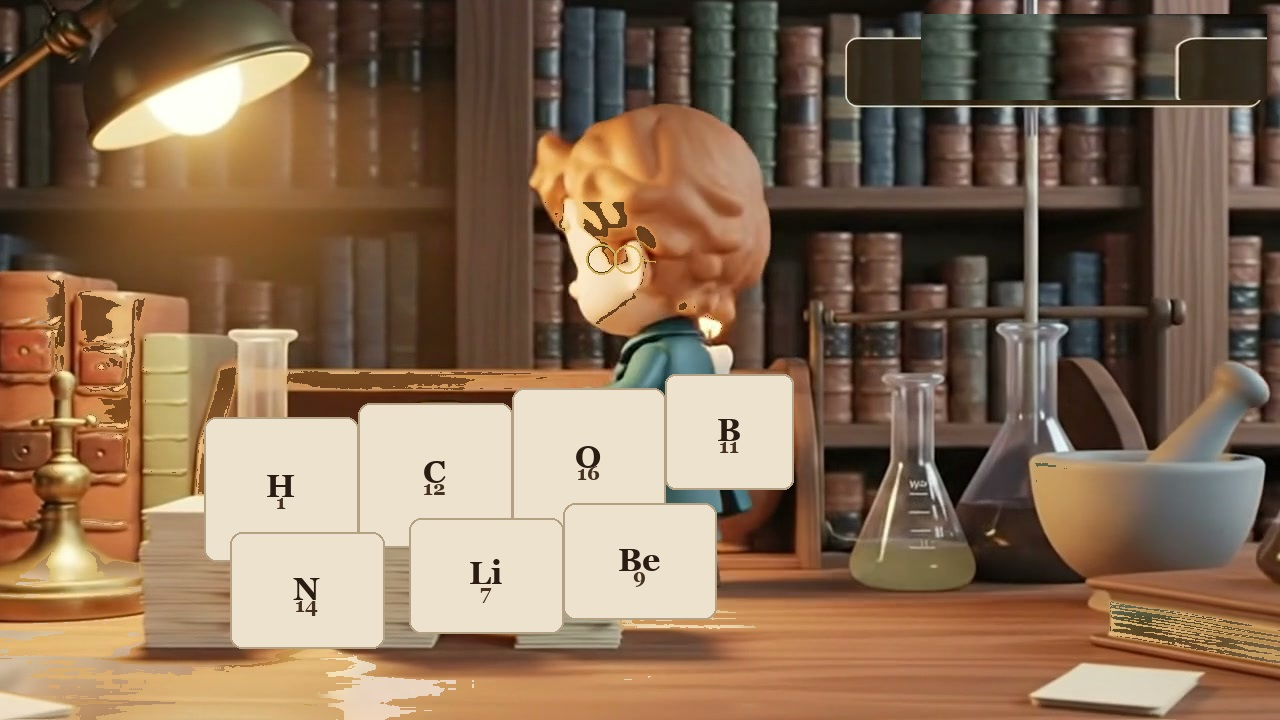
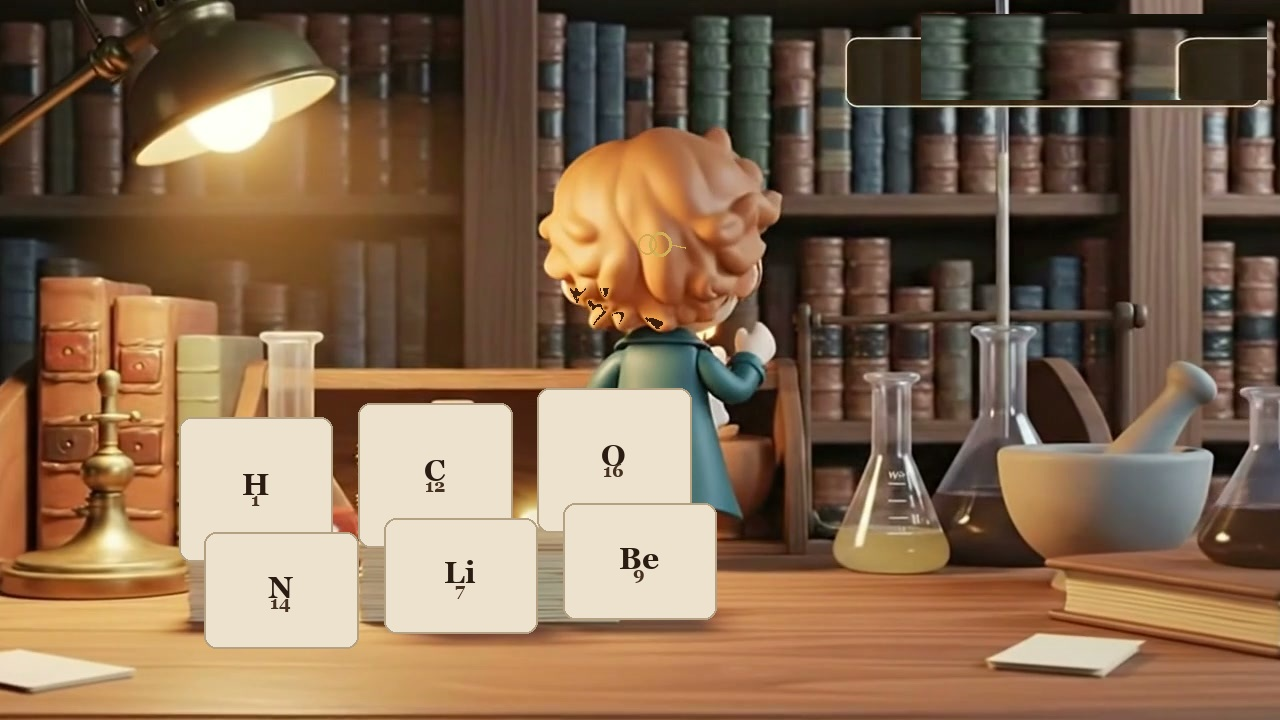
HOS 002 Part 04 v11: tighten Explorer start + face-on auto-reject gate.
Rebuild 06 start from v10 back scale with written cards; auto-reject only when
tall garnish AND face-on (back silhouette alone is not enough).

diff --git a/02_Video-Projects/002_How-Did-We-Discover-The-Periodic-Table/07_Edit-Project/_mint_part04_flow_v11.py b/02_Video-Projects/002_How-Did-We-Discover-The-Periodic-Table/07_Edit-Project/_mint_part04_flow_v11.py
@@ -664,7 +664,7 @@ def explorer_face_hero_suspect(still: Path) -> dict:
     bh = max(ys) - min(ys)
     h_frac = bh / float(h)
     w_frac = bw / float(w)
-    face_hero = h_frac >= 0.42 or (h_frac >= 0.34 and w_frac >= 0.28 and len(xs) > 1800)
+    face_hero = h_frac >= 0.55 or (h_frac >= 0.45 and w_frac >= 0.32 and len(xs) > 2200)
     return {
         "still": str(still),
         "teal_px": len(xs),
@@ -913,14 +913,16 @@ def still_check_garnish(clip: Path, tag: str) -> dict:
         "face_hero_count": len(heroes),
         "faceon_count": len(faceons),
         "face_hero": len(heroes) >= 2,
-        "faceon_pose": len(faceons) >= 2,  # advisory heuristic; agent still-QA is source of truth
+        "faceon_pose": len(faceons) >= 2,
+        # Auto-reject only when tall garnish AND face-on (back silhouette can be tall)
+        "auto_reject": (len(heroes) >= 2 and len(faceons) >= 2) or len(faceons) >= 4,
         "max_h_frac": max((s["h_frac"] for s in scores), default=0.0),
     }
     (QA_STILLS / f"{tag}_garnish_check.json").write_text(json.dumps(report, indent=2) + "\n")
     print(
         f"  garnish-check {tag}: face_hero_frames={len(heroes)}/9 "
         f"faceon_frames={len(faceons)}/9 max_h_frac={report['max_h_frac']} "
-        f"reject={report['face_hero'] or report['faceon_pose']}",
+        f"reject={report.get('auto_reject')}",
         flush=True,
     )
     return report
@@ -1111,7 +1113,7 @@ def main() -> None:
                         hcheck = still_check_hat_colour(dest, f"{pid}_existing")
                         if (
                             not check["roof_readable"]
-                            and not gcheck.get("face_hero")
+                            and not gcheck.get("auto_reject", gcheck.get("face_hero"))
                             and not hcheck.get("reject")
                         ):
                             print(
@@ -1279,16 +1281,15 @@ def main() -> None:
                     reject_reasons = []
                     if check["roof_readable"]:
                         reject_reasons.append("hardfill_or_roof")
-                    if gcheck.get("face_hero"):
-                        reject_reasons.append("face_hero")
-                    # faceon_pose is advisory here; agent visual QA across 1s stills is authoritative
+                    if gcheck.get("auto_reject"):
+                        reject_reasons.append("faceon_hero")
                     if hcheck.get("hat_reject"):
                         reject_reasons.append("hat")
                     if hcheck.get("colour_reject"):
                         reject_reasons.append("colour_dna")
 
                     if reject_reasons:
-                        rej = REJECTED / f"{pid}_v10_try{create_n}_{'+'.join(reject_reasons)}.mp4"
+                        rej = REJECTED / f"{pid}_v11_try{create_n}_{'+'.join(reject_reasons)}.mp4"
                         if rej.exists():
                             rej.unlink()
                         shutil.move(str(tmp), str(rej))
